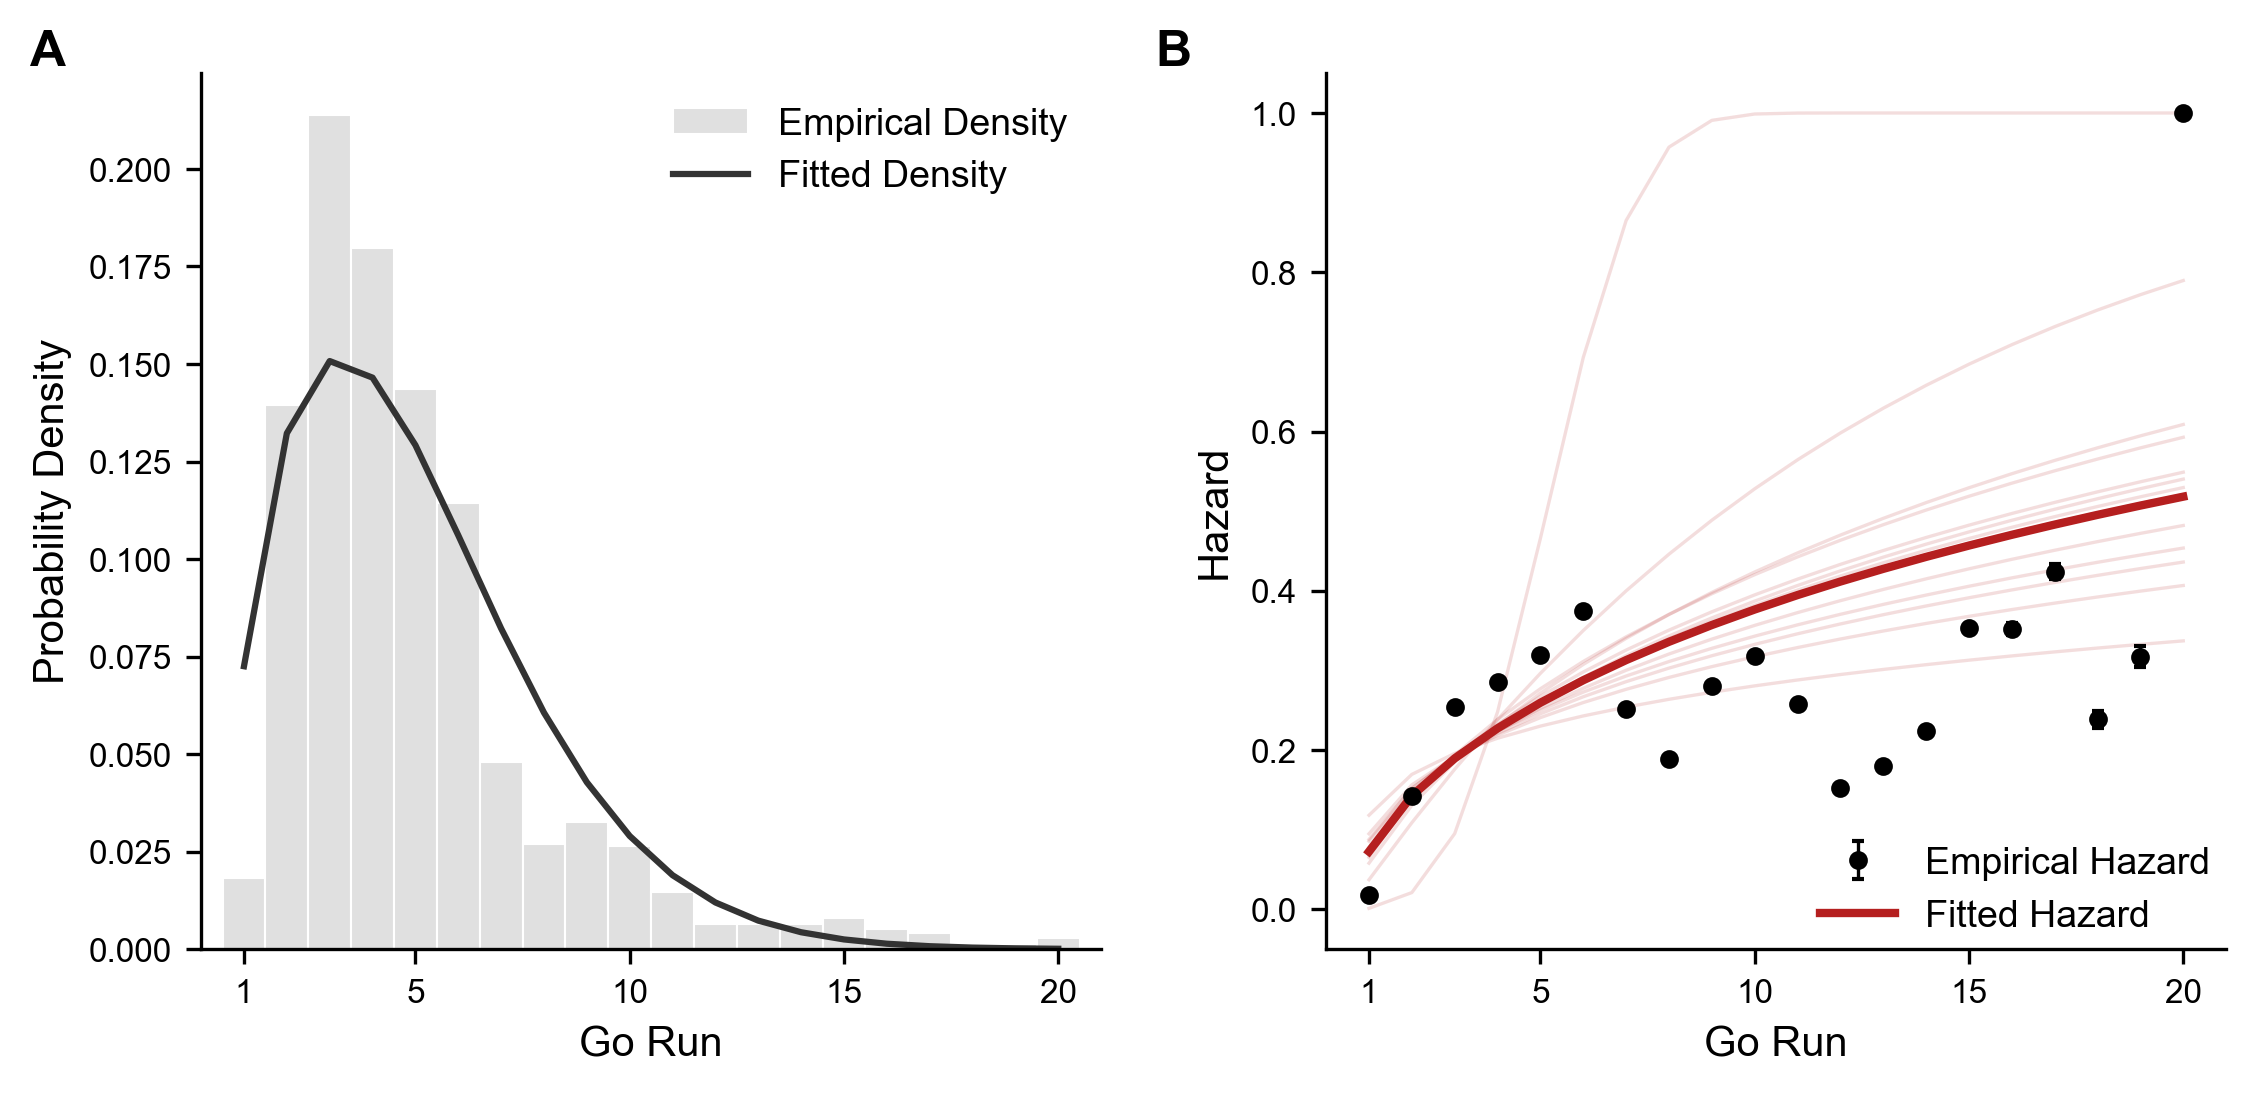
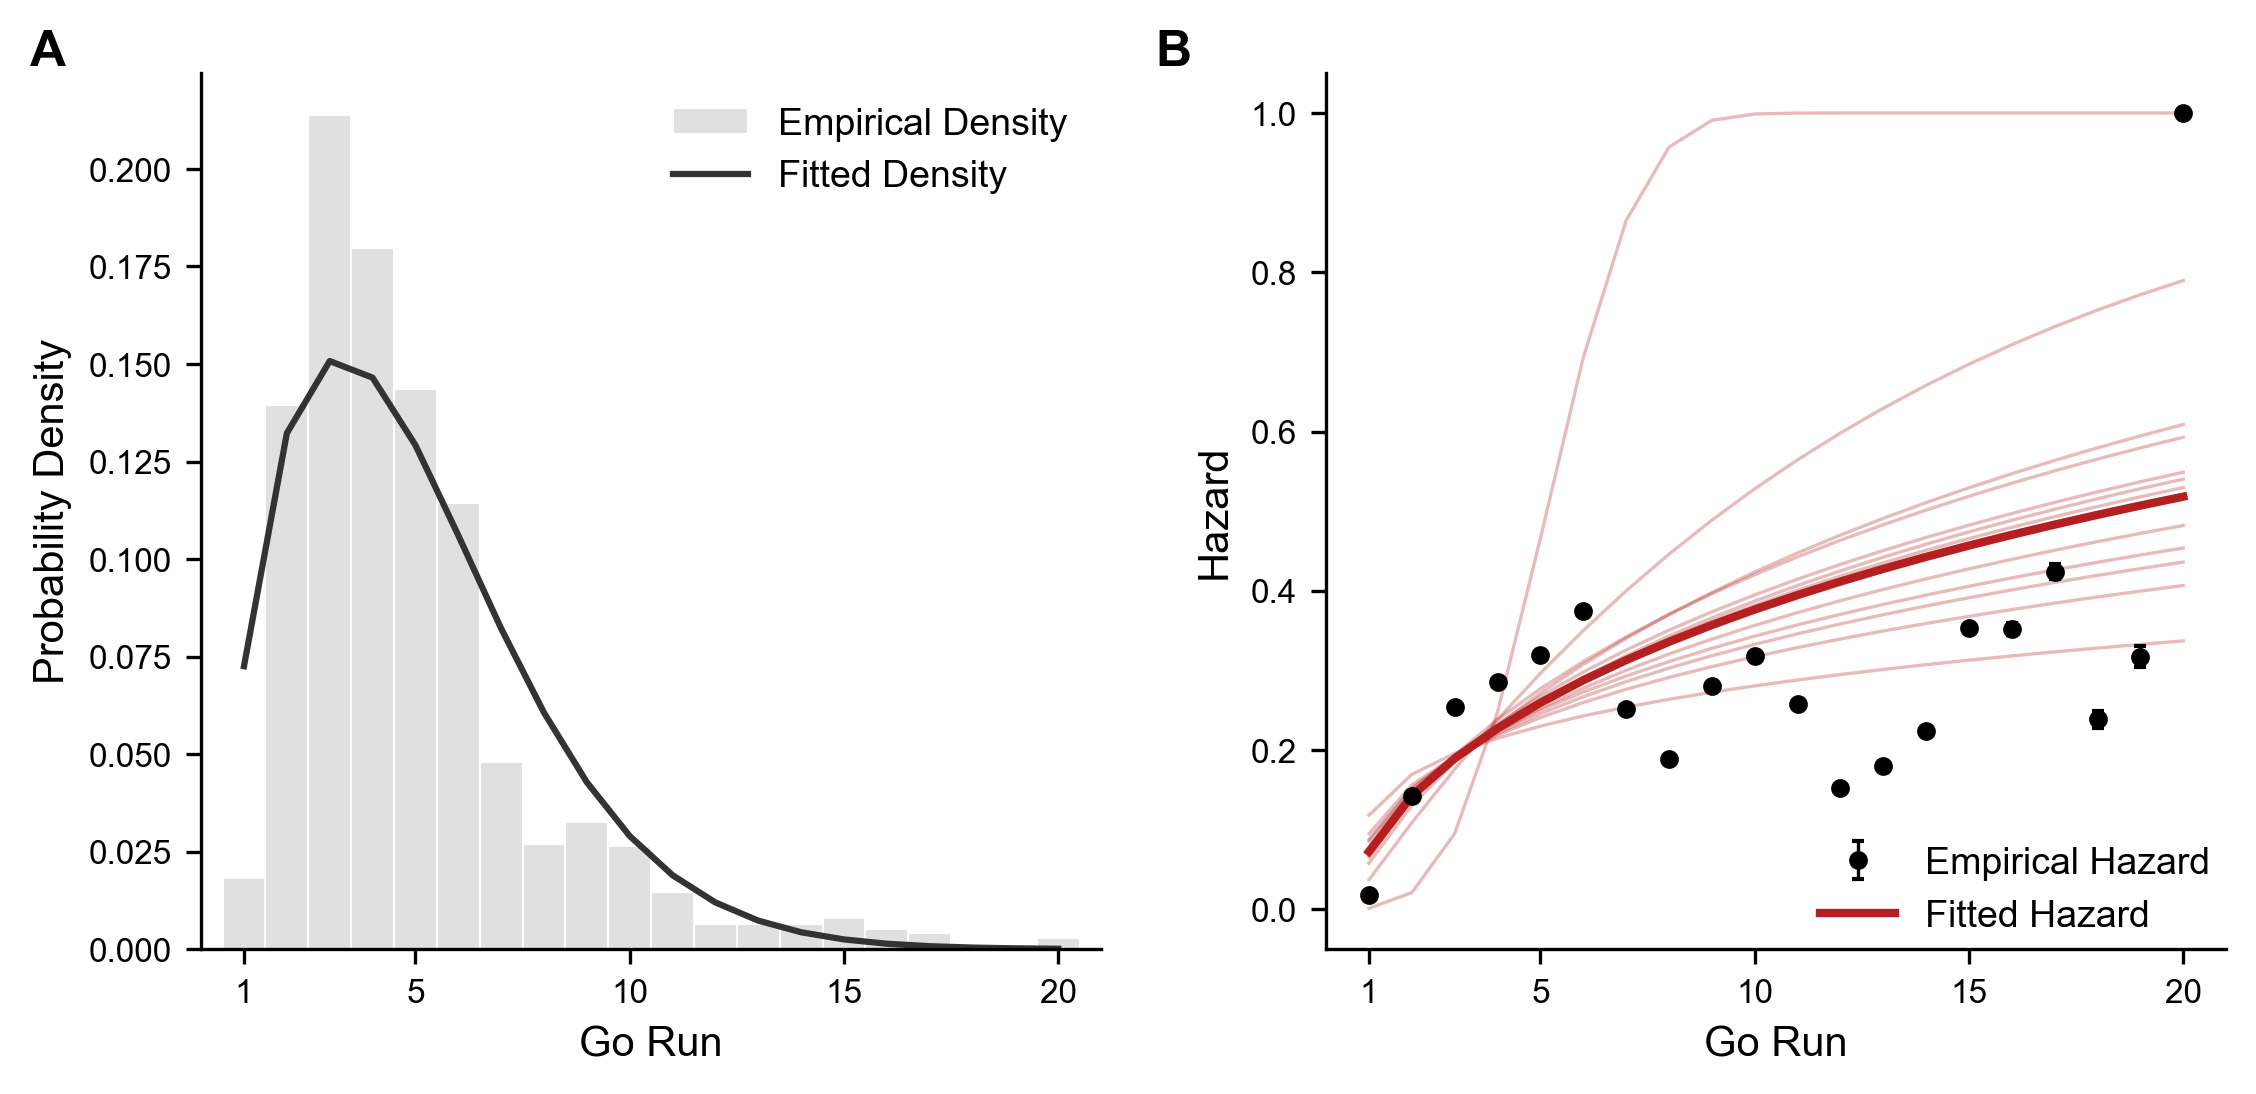
up

Changed region(s): [[0.6516, 0.404, 0.9619, 0.6837], [0.5895, 0.6837, 0.6516, 0.777]]

diff --git a/utils/fit_hazard.py b/utils/fit_hazard.py
@@ -183,7 +183,7 @@ def main():
     ax1 = axes1[1]
     for oid, (q_f, beta_f) in order_fits.items():
         h_vals = get_dw_hazard(q_f, beta_f, x_plot)
-        ax1.plot(x_plot, h_vals, color='#b51f1f', alpha=0.15, linewidth=0.8)
+        ax1.plot(x_plot, h_vals, color='#b51f1f', alpha=0.3, linewidth=0.8)
     
     line_haz, = ax1.plot(x_plot, df_global_stats['fitted_hazard'], color="#b51f1f", linewidth=2.0, label='Fitted Hazard')
     mask = (df_global_stats['n_at_risk'] > 0) & (df_global_stats['go_run_length'] <= 20)
